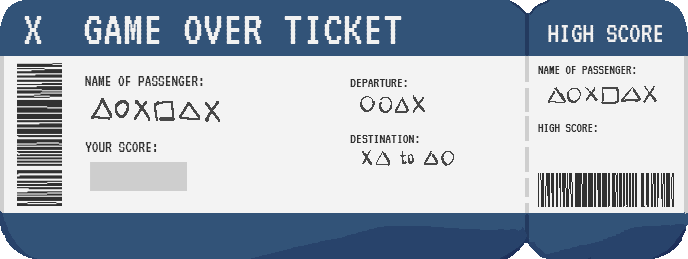
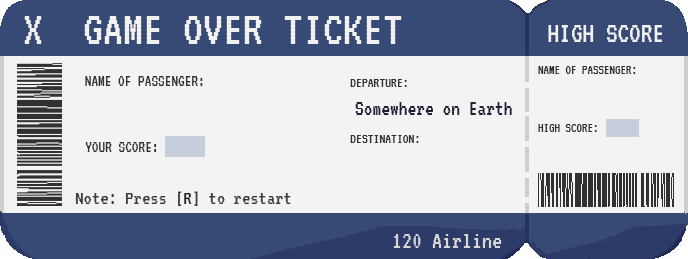
Added game over info and adjusted thier positions.

diff --git a/src/scenes/game.js b/src/scenes/game.js
@@ -52,20 +52,44 @@ class Game extends Phaser.Scene{
         this.floor.setPushable(false); //prevents floor from being moved by player
 
         // score stuff
+        this.gameOverTicket = this.add.image(game.config.width/2, game.config.height/2, 'gameOverScreen');
+        this.gameOverTicket.visible = false;
         this.playerScoreValue = 0;
+
         let scoreConfig = {
-            fontFamily: 'Comic Sans MS',
+            fill: '#1e2138',
+            fontFamily: 'pixelFont',
             fontSize: '28px',
-            align: 'right',
+            align: 'left',
             padding: {
                 top: 5,
                 bottom: 5,
             },
-            fixedWidth: 100
+            fixedWidth: 500
         }
 
-        this.playerScoreDisplay = this.add.text(0, 0, this.playerScoreValue, scoreConfig);
-        this.highScoreDisplay = this.add.text(1000, 0, '', scoreConfig);
+
+        //display "Your Score: " on top left
+        this.playerScoreText = this.add.text(5, 0, 'Your Score: ', scoreConfig);
+        this.playerScoreText.setAlign('left');
+        //display actual player score next to the "Your Score: "
+        this.playerScoreDisplay = this.add.text(130, 0, this.playerScoreValue, scoreConfig);
+
+        //display information on the game over ticket; will be blank before game over screen
+        this.nameDisplay1 = this.add.text(385, 320, info.name, scoreConfig);
+        this.nameDisplay1.visible = false;
+        this.nameDisplay2 = this.add.text(840, 307, info.name, scoreConfig);
+        this.nameDisplay2.setFontSize(24);
+        this.nameDisplay2.visible = false;
+        this.locationDisplay = this.add.text(651, 375, info.arrivingLocation, scoreConfig);
+        this.locationDisplay.setFontSize(21);
+        this.locationDisplay.visible = false;
+        this.finalScoreDisplay = this.add.text(465, 358, '', scoreConfig);
+        this.highScoreDisplay = this.add.text(905, 340, '', scoreConfig);
+        this.highScoreDisplay.setFontSize(24);
+
+        // GAME OVER flag
+        this.gameOver = false;
 
         //suitcase group
         this.suitcaseGroup = this.add.group([
@@ -103,8 +127,6 @@ class Game extends Phaser.Scene{
         // Mouse click to jump
         this.input.on('pointerdown', this.jump, this);
 
-        // GAME OVER flag for later
-        this.gameOver = false;
 
         this.makeSuitcase(); //spawn suitcase
         this.makeSoda();
@@ -144,22 +166,27 @@ class Game extends Phaser.Scene{
             }
         });
 
+        //debug purpose
         if(Phaser.Input.Keyboard.JustDown(keyD)) {
             this.gameOver = true;
             //this.playerScoreValue += 1;
         }
 
-        //update high score when game over
+        //game over screen
         if (this.gameOver) {
-            this.add.image(game.config.width/2, game.config.height/2, 'gameOverScreen');
+            this.gameOverTicket.visible = true;
+            this.nameDisplay1.visible = true;
+            this.nameDisplay2.visible = true;
+            this.locationDisplay.visible = true;
+            this.playerScoreText.visible = false;
+            this.playerScoreDisplay.visible = false;
+            //this.add.image(game.config.width/2, game.config.height/2, 'gameOverScreen');
             //pixel font used: https://fonts.google.com/specimen/VT323
 
-
-            if(this.playerScoreValue > info.highestScore) {
+            if(this.playerScoreValue > info.highestScore) { //update high score when game over
                 info.highestScore = this.playerScoreValue; 
-                //console.log(info.name + '\'s latest high score is ' + info.highestScore);
-                //console.log('they are going to ' + info.arrivingLocation);
             }
+            this.finalScoreDisplay.text = this.playerScoreValue;
             this.highScoreDisplay.text = info.highestScore;
 
         } else {                                //if the game is not over yet
